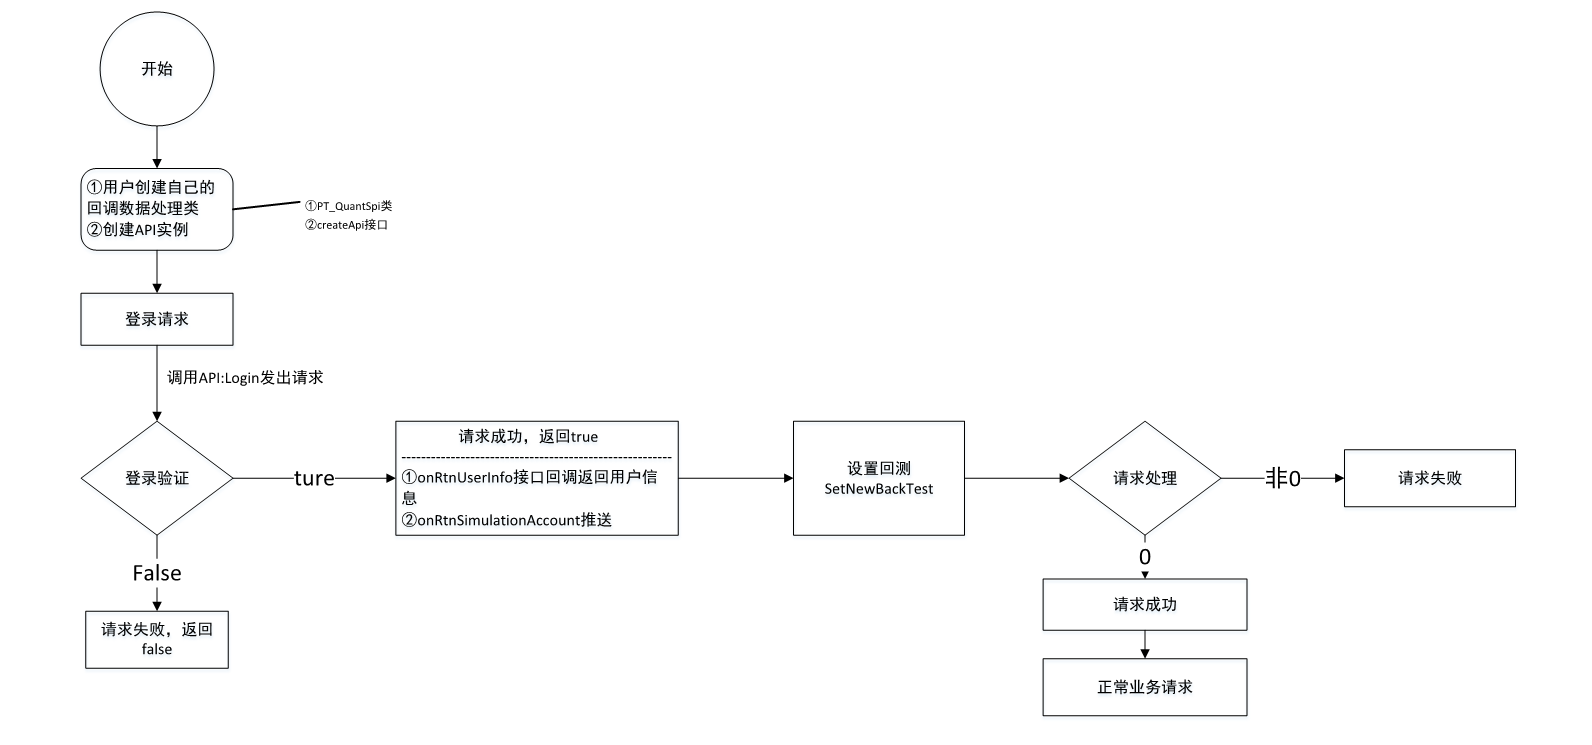
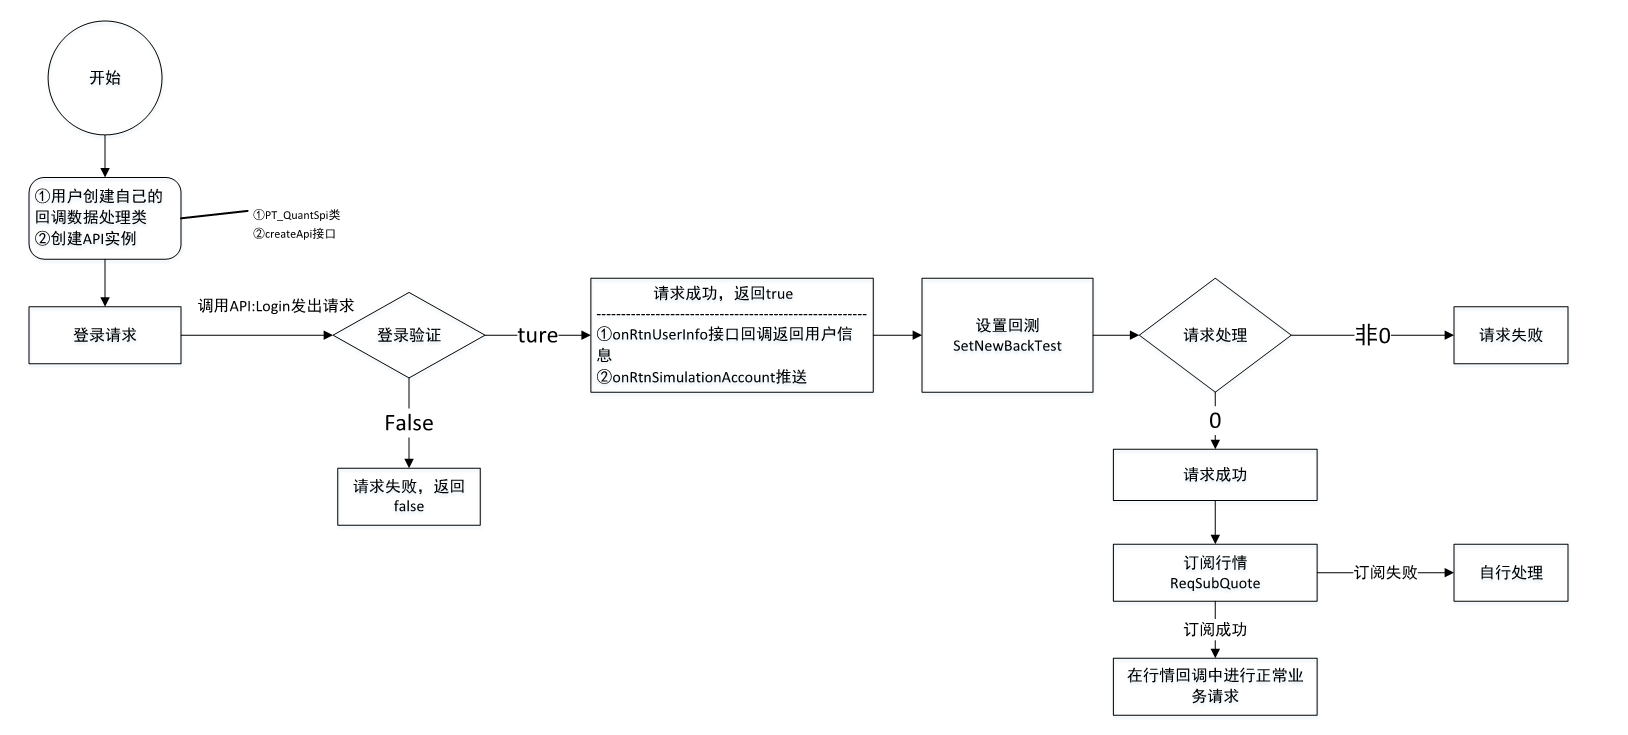
修正模拟引擎使用流程
修正模拟引擎使用流程

diff --git a/doc/demo/使用模拟引擎.md b/doc/demo/使用模拟引擎.md
@@ -16,9 +16,22 @@ using namespace std;
 class MySpi : public PT_QuantSpi
 {
 private:
+	PT_QuantApi* m_pApiHandle;
 public:
-	MySpi() {}
+	MySpi()
+	{
+		//初始化api
+		PT_QuantApi::Init();
+
+		//创建api实例 参数说明请查看文档
+		m_pApiHandle = PT_QuantApi::createApi(this, true, PT_QuantTdAppEType_Simulation, true, PT_QuantMdAppEType_Real, true, false);
+	}
 	~MySpi() {}
+public:
+	PT_QuantApi* GetApi()
+	{
+		return m_pApiHandle;
+	}
 public:
 	///@brief 通知连接
 	///@param nSrvType 业务服务器类型 参考PT_QuantPlatform::PT_Quant_APPServerType
@@ -75,9 +88,73 @@ public:
 				 << " szText:" << notice->szText
 				 << " nTotalAmount:" << notice->nTotalAmount
 				 << " nReservationNum:" << notice->nReservationNum
-				 << " pReservationCode:" << notice->pReservationCode->szWinCode
 				 << endl;
 		}
+
+		//your code
+	}
+	///@brief 通知个股行情
+	///@param[in] nReqID 消息请求序号
+	///@param[in] pMarket 个股的行情数据地址
+	///@return 无
+	///@note 该信号会在请求历史逐笔行情或订阅实时逐笔行情后主动通知
+	virtual void OnRtnMarket(MD_ReqID nReqID, MD_DATA_MARKET *pMarket)
+	{
+		// 此处只重写了个股行情回调，在其它回调中也可进行业务操作
+		cout << "此处只重写了个股行情回调，在其它回调中也可进行业务操作" << endl;
+		cout << nReqID << " OnRtnMarket" << pMarket->nTime << "nMatch" << pMarket->nMatch << endl;
+
+		// 获取下单信号，进行下单撤单处理
+		// 下单逻辑请参照下单流程及示例代码
+		if(pMarket->nTime == 93004000)
+		{
+			TD_ReqOrderInsert tradeReq;
+			tradeReq.nOrderVol = 200;
+			tradeReq.nTradeType = TD_TradeType_Buy;
+			tradeReq.nOrderPrice = 140000;
+			memcpy(tradeReq.szContractCode, "600000.SH", sizeof(tradeReq.szContractCode));
+
+			int x = m_pApiHandle->reqOrderInsert(&tradeReq);
+		}
+
+		if(pMarket->nTime == 93044000)
+		{
+			TD_ReqOrderInsert tradeReq;
+			tradeReq.nOrderVol = 200;
+			tradeReq.nTradeType = TD_TradeType_Buy;
+			tradeReq.nOrderPrice = 132400;
+			memcpy(tradeReq.szContractCode, "600000.SH", sizeof(tradeReq.szContractCode));
+
+			int x = m_pApiHandle->reqOrderInsert(&tradeReq);
+		}
+
+		// your code
+	}
+
+	virtual void onRspOrderInsert(const TD_RspOrderInsert *rsp, int error)
+	{
+		cout << "onRspOrderInsert" << endl;
+
+		//your code
+	}
+
+	///订单状态改变推送
+	///@param    notice              定单状态信息
+	///@return   无
+	///@remark   该接口在订单状态改变时被调用
+	virtual void onRtnOrderStatusChangeNotice(const TD_RtnOrderStatusChangeNotice *notice)
+	{
+		cout << "onRtnOrderStatusChangeNotice" << endl;
+
+		//your code
+	}
+	///成交明细推送
+	///@param    notice              成交明细信息
+	///@return   无
+	///@remark   该接口在订单发生成交时被调用，推送成交明细
+	virtual void onRtnOrderMatchNotice(const TD_RtnOrderMatchNotice *notice)
+	{
+		cout << "onRtnOrderMatchNotice" << endl;
 
 		//your code
 	}
@@ -101,28 +178,43 @@ void TestSetNewBackTest(PT_QuantApi *api, int64_t nSimAccountId)
 	cout << " err = " << err << endl;
 
 	if(err != 0)
+	{
 		cout << "SetNewBackTest请求失败" << endl;
+		return;
+	}
 
-	////请求成功，接下来可进行其他业务操作
+	////请求成功，订阅行情，参照订阅行情流程及示例代码，撮合引擎根据所订阅的行情进行撮合
+	/// 接下来的业务操作全部移至行情回调中进行（行情回调接口有若干个，请参考行情订阅流程示意图以及示例代码）
+	int codeNum = 1;
+	MD_CodeType *pSubWindCode = new MD_CodeType[codeNum];
+
+	for(int i = 0; i < codeNum; ++i)
+	{
+		memcpy(pSubWindCode[i], "600000.SH", sizeof(MD_CodeType));
+	}
+
+	err = api->ReqSubQuote(1, MD_SubType_market | MD_SubType_trans, MD_CycType_none, pSubWindCode, codeNum, "2017-11-14 09:00:00", "2017-11-15 16:00:00");
+	cout << " err = " << err << endl;
+
+	if(err != 0)
+	{
+		cout << "ReqSubQuote请求失败:" << endl;
+		return;
+	}
 }
 
 int main()
 {
 	MySpi* spi = new MySpi();
 
-	//初始化api
-	PT_QuantApi::Init();
-	//创建api实例 参数说明请查看文档
-	PT_QuantApi* api = PT_QuantApi::createApi(spi, true, PT_QuantTdAppEType_Simulation, true, PT_QuantMdAppEType_Real, true, false);
-
-	int err = api->Login("test1", "abcd1234");
+	int err = spi->GetApi()->Login("test1", "abcd1234");
 
 	if(!err)
 		cout << "login failed" << endl;
 	else
 	{
 		cout << "login success!" << endl;
-		TestSetNewBackTest(api, 1);
+		TestSetNewBackTest(spi->GetApi(), 1);
 	}
 
 	while(1)      // 阻塞
@@ -134,4 +226,4 @@ int main()
 }
 ```
 
-模拟盘设置回测限制成功之后所有业务逻辑操作和测试盘一样，此处需自行订阅行情，撮合引擎根据订阅的行情进行撮合成交。
+模拟盘需订阅行情来进行撮合，并在行情回调中进行下单等逻辑处理，撮合引擎根据个股行情以及逐笔成交进行撮合，参照上述代码。
